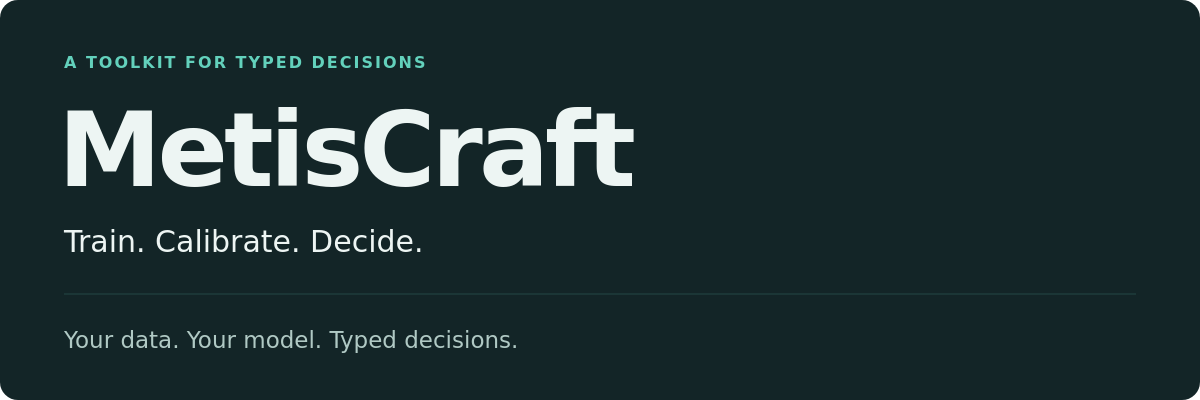
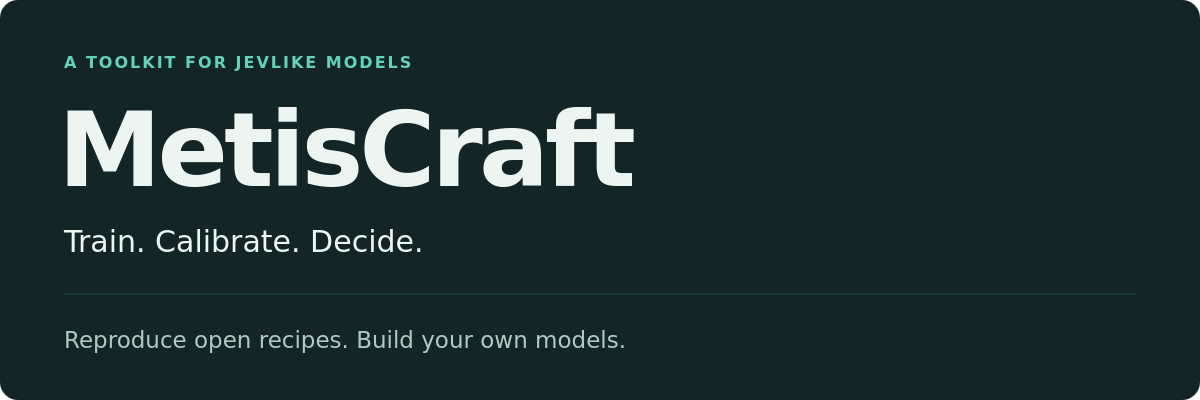
Lead with the JevLike toolkit and recorded Tev1 reproduction results

Changed region(s): [[0.0308, 0.81, 0.5242, 0.87], [0.185, 0.12, 0.37, 0.18]]

diff --git a/docs/site.css b/docs/site.css
@@ -74,3 +74,16 @@
   .md-typeset .cookbook-guide { grid-template-columns: 72px minmax(0, 1fr); gap: .75rem; }
   .md-typeset .cookbook-guide .cookbook-avatar { width: 72px; height: 72px; }
 }
+
+/* Reported model results stay visible before the usage example. */
+.reproduction-results { display: grid; grid-template-columns: repeat(2, minmax(0, 1fr)); gap: 1rem; margin: 1rem 0; }
+.reproduction-results > div { padding: 1rem 1.25rem; border: 1px solid var(--md-default-fg-color--lightest); border-top: 3px solid var(--md-primary-fg-color); border-radius: .5rem; background: var(--md-code-bg-color); }
+.reproduction-results .result-label { font-size: .8rem; color: var(--md-default-fg-color--light); }
+.reproduction-results > div > p { margin: 0; }
+.reproduction-results > div > p:nth-child(2) { margin: .25rem 0 .4rem; font-size: 2rem; line-height: 1.2; color: var(--md-primary-fg-color); }
+.reproduction-results > div > p:last-child { font-size: .75rem; }
+.start-grid > div { display: flex; flex-direction: column; }
+.start-grid > div > p:last-child { margin-top: auto; padding-top: .5rem; }
+@media (max-width: 600px) {
+  .reproduction-results { grid-template-columns: minmax(0, 1fr); }
+}

diff --git a/docs/visuals/src/render.py b/docs/visuals/src/render.py
@@ -48,15 +48,15 @@ def main():
             "MetisCraft",
             text(12, 82, "MetisCraft", 80, ink, 700, letter_spacing="-2"),
         )
-        body = text(64, 68, "A TOOLKIT FOR TYPED DECISIONS", 16, accent, 650, letter_spacing="2")
+        body = text(64, 68, "A TOOLKIT FOR JEVLIKE MODELS", 16, accent, 650, letter_spacing="2")
         body += text(58, 186, "MetisCraft", 104, ink, 700, letter_spacing="-4")
         body += text(64, 252, "Train. Calibrate. Decide.", 30, ink, 500)
         body += f'<path d="M64 294 H1136" stroke="{accent}" stroke-opacity=".2"/>'
-        body += text(64, 348, "Your data. Your model. Typed decisions.", 23, muted)
+        body += text(64, 348, "Reproduce open recipes. Build your own models.", 23, muted)
         save(f"hero-{mode}", 1200, 400, "MetisCraft — Train. Calibrate. Decide.", body, bg)
     body = text(88, 158, "MetisCraft", 96, INK, 700, letter_spacing="-3")
     body += text(92, 240, "Train. Calibrate. Decide.", 42, INK, 600)
-    body += text(94, 310, "Train decision models for your own tasks", 28, "#546b6d")
+    body += text(94, 310, "A toolkit for JevLike decision models", 28, "#546b6d")
     body += '<path d="M94 378 H1106" stroke="#c5dbd6"/>'
     body += text(94, 447, "Typed outputs  /  Composable readouts  /  Traceable runs", 25, TEAL)
     body += text(94, 553, "github.com/Shichaoxx/MetisCraft", 21, "#546b6d")

diff --git a/scripts/build_docs.py b/scripts/build_docs.py
@@ -176,7 +176,7 @@ def main():
         project = {
             "site_name": "MetisCraft",
             "site_url": f"https://shichaoxx.github.io/MetisCraft/{lang}/",
-            "site_description": "Train. Calibrate. Decide. A toolkit for typed decision models.",
+            "site_description": "A JevLike model toolkit. Train, reproduce, calibrate and serve.",
             "docs_dir": f"sources/{lang}",
             "site_dir": f"site/{lang}",
             "repo_url": "https://github.com/Shichaoxx/MetisCraft",

diff --git a/README.md b/README.md
@@ -3,7 +3,7 @@
     <source media="(prefers-color-scheme: dark)" srcset="docs/visuals/figures/wordmark-dark.svg">
     <img src="docs/visuals/figures/wordmark-light.svg" alt="MetisCraft" width="320">
   </picture>
-  <br><b>Train. Calibrate. Decide.</b>
+  <br><b>A toolkit for JevLike decision models.</b>
 </p>
 
 <p align="center">
@@ -21,7 +21,16 @@
   <a href="CONTRIBUTING.md">Contribute</a>
 </p>
 
-**Decision models, built for your tasks.** Turn your task into a decision model. Bring labeled data and a local base model; one recipe takes you from training and calibration to evaluation and serving.
+**Train, reproduce and deploy JevLike models.** One toolkit connects training, calibration, evaluation and serving. Reproduce an open recipe or build a decision model for your own labeled task.
+
+## Tev1 4B, reproduced with MetisCraft
+
+| Evaluation set | MetisCraft 4B | Original Tev1 4B | Difference |
+|---|---:|---:|---:|
+| Main decisions · 1,000 questions | **87.3% · 873/1,000** | 88.0% | −0.70 pp |
+| Policy transfer · 300 questions | **99.33% · 298/300** | 100% | −0.67 pp |
+
+**Both predeclared accuracy checks passed.** Single seed, the same public development questions; the original training history was not recovered, and calibration can worsen NLL. [Reproduction record and limits](docs/reproductions/tev1.md) · [Training recipe](recipes/tev1/README.md).
 
 ## One message. Two decisions.
 

diff --git a/README_zh.md b/README_zh.md
@@ -3,7 +3,7 @@
     <source media="(prefers-color-scheme: dark)" srcset="docs/visuals/figures/wordmark-dark.svg">
     <img src="docs/visuals/figures/wordmark-light.svg" alt="MetisCraft" width="320">
   </picture>
-  <br><b>Train. Calibrate. Decide.</b>
+  <br><b>JevLike 判断模型工具包</b>
 </p>
 
 <p align="center">
@@ -21,7 +21,16 @@
   <a href="CONTRIBUTING.md">参与贡献</a>
 </p>
 
-**为自己的任务训练判断模型。** 把业务问题训练成一次前向就能回答的判断。带上有标签的数据和本地基座，用同一份配方完成训练、校准、评测与部署。
+**训练、复现与部署 JevLike 模型。** 同一工具包连接训练、校准、评测和服务；既能复现公开配方，也能接入自己的标注任务。
+
+## 用 MetisCraft 复现 Tev1 4B
+
+| 评测集 | MetisCraft 4B | 原版 Tev1 4B | 差距 |
+|---|---:|---:|---:|
+| 主决策集 · 1,000 题 | **87.3% · 873/1,000** | 88.0% | −0.70 个百分点 |
+| 政策迁移 · 300 题 | **99.33% · 298/300** | 100% | −0.67 个百分点 |
+
+**两项预定准确率验收均达标。** 单种子、同一批公开开发题；原始训练历史未恢复，校准可能恶化 NLL。[复现记录与限制](docs/reproductions/tev1.md) · [训练配方](recipes/tev1/README.md)。
 
 ## 一条消息，两个判断
 

diff --git a/docs/en/index.md b/docs/en/index.md
@@ -1,13 +1,41 @@
-# Your task. A model that decides.
+# A toolkit for JevLike models.
 
 <div class="home-lead" markdown="1">
 
-Train typed decision models on your own data. One recipe connects training, calibration, evaluation and serving.
+Train, reproduce and deploy JevLike decision models. One recipe connects training, calibration, evaluation and serving.
 
 [Get started](cookbook/first-model.md){ .md-button .md-button--primary }
 [Explore the Cookbook](cookbook/index.md){ .md-button }
 
 </div>
+
+## Tev1 4B reproduction
+
+<div class="reproduction-results" markdown="1">
+
+<div markdown="1">
+
+<span class="result-label">Main decisions · 1,000 questions</span>
+
+**87.3%**
+
+873/1,000 correct · original Tev1 **88.0%**
+
+</div>
+<div markdown="1">
+
+<span class="result-label">Policy transfer · 300 questions</span>
+
+**99.33%**
+
+298/300 correct · original Tev1 **100%**
+
+</div>
+</div>
+
+Both predeclared accuracy checks passed. Single seed, the same public development questions; original training history is unavailable and calibration can worsen NLL.
+
+[Reproduction record and limits](../reproductions/tev1.md) · [Training recipe](../../recipes/tev1/README.md)
 
 ## Start with a recorded decision
 

diff --git a/docs/zh/index.md b/docs/zh/index.md
@@ -1,13 +1,41 @@
-# 把业务问题，变成模型的判断。
+# JevLike 模型工具包
 
 <div class="home-lead" markdown="1">
 
-用自己的数据训练类型化判断模型。一份配方，连接训练、校准、评测和部署。
+训练、复现与部署 JevLike 判断模型。一份配方，连接训练、校准、评测和服务。
 
 [开始使用](cookbook/first-model.md){ .md-button .md-button--primary }
 [浏览 Cookbook](cookbook/index.md){ .md-button }
 
 </div>
+
+## Tev1 4B 复现结果
+
+<div class="reproduction-results" markdown="1">
+
+<div markdown="1">
+
+<span class="result-label">主决策集 · 1,000 题</span>
+
+**87.3%**
+
+873/1,000 答对 · 原版 Tev1 **88.0%**
+
+</div>
+<div markdown="1">
+
+<span class="result-label">政策迁移 · 300 题</span>
+
+**99.33%**
+
+298/300 答对 · 原版 Tev1 **100%**
+
+</div>
+</div>
+
+两项预定准确率验收均达标。单种子、同一批公开开发题；原始训练历史未恢复，校准可能恶化 NLL。
+
+[复现记录与限制](../reproductions/tev1.md) · [训练配方](../../recipes/tev1/README.md)
 
 ## 从一条真实响应开始
 
